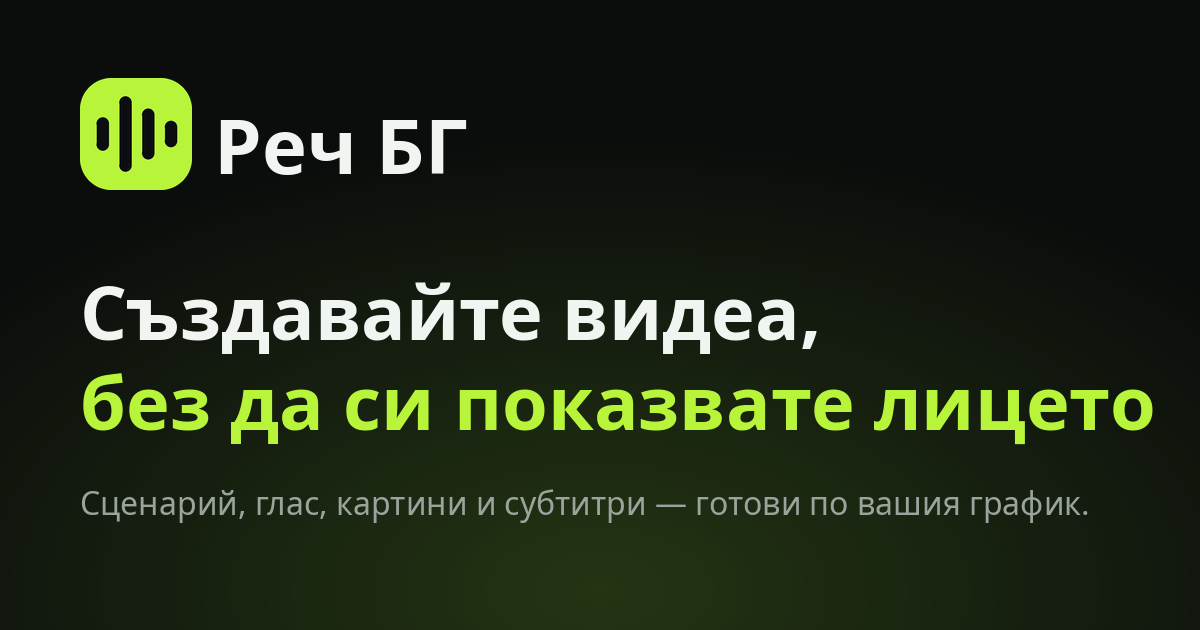
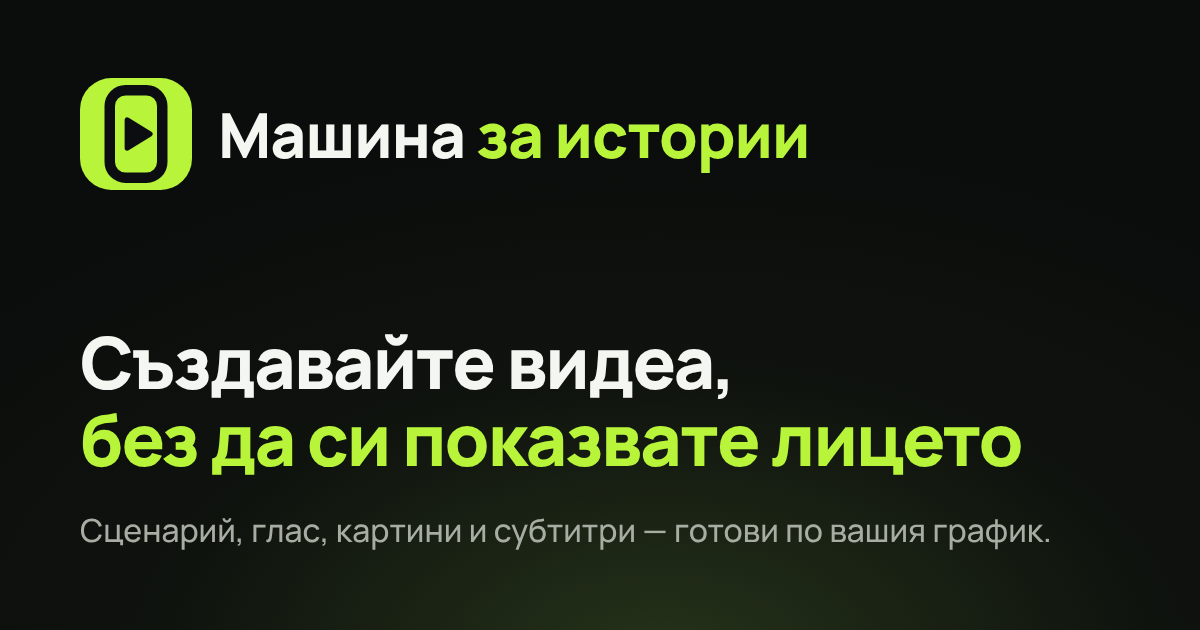
The Bulgarian site is „Машина за истории“, with mashinazaistorii.com as a second address
Its name, wordmark and mark (an upright screen with a play triangle), icons and share image, page titles, the
catalog's mentions, the legal texts and Stripe's product names. Its id in the code stays rechbg.

The Worker also answers on mashinazaistorii.com; SITE_URL stays rechbg.com until the new address is seen to load
(docs/SITES.md), so a problem with the new domain cannot take the site down.

Claude-Session: https://claude.ai/code/session_01YTtdRKNGt1RfBFzQDKghLf

diff --git a/src/public/legal-bg.ts b/src/public/legal-bg.ts
@@ -15,10 +15,10 @@ export const terms: LegalSection[] = [
     id: "service",
     title: "За услугата",
     paragraphs: [
-      "Реч БГ предоставя онлайн инструменти за създаване на кратки вертикални видеа без лице. Изкуствен интелект пише сценария, AI глас го озвучава, сцените получават AI картини — а по ваш избор и кратки AI видеоклипове — и видеото се завършва със субтитри дума по дума, преходи и фонова музика от нашата библиотека. Можете да създавате озвучени истории и факти в избран от вас стил на картините, POV видеа, „брейнрот“ смесици, видеа по ваш собствен сценарий и разкази (заглавна карта, а после историята, разказана върху фонов клип от нашата библиотека или качен от вас, който се върти). Можете да използвате и свои картини, видеоклипове и запис на озвучаването, а по избор AI водещ изговаря озвучаването на видеото пред камера.",
+      "„Машина за истории“ предоставя онлайн инструменти за създаване на кратки вертикални видеа без лице. Изкуствен интелект пише сценария, AI глас го озвучава, сцените получават AI картини — а по ваш избор и кратки AI видеоклипове — и видеото се завършва със субтитри дума по дума, преходи и фонова музика от нашата библиотека. Можете да създавате озвучени истории и факти в избран от вас стил на картините, POV видеа, „брейнрот“ смесици, видеа по ваш собствен сценарий и разкази (заглавна карта, а после историята, разказана върху фонов клип от нашата библиотека или качен от вас, който се върти). Можете да използвате и свои картини, видеоклипове и запис на озвучаването, а по избор AI водещ изговаря озвучаването на видеото пред камера.",
       "С „Клипове“ можете да качите свои по-дълги видеа — подкаст, интервю, стрийм или уебинар — или да ги внесете от линк към файла. Транскрибираме казаното в тях, изкуствен интелект избира и оценява моменти, които биха могли да станат кратки видеа (оценката е приблизителна преценка, а не обещание за гледания), а избраните от вас моменти стават вертикални клипове: изрязани от вашето видео, кадрирани по хората в него и със субтитри. За да кадрираме клип, намираме лицата в него и следим чии устни се движат, докато някой говори; така само определяме къде в кадъра са хората — никога не разпознаваме кои са те. Клиповете се правят от ваши собствени кадри; нищо в тях не е генерирано с изкуствен интелект.",
       "Можете да създавате видеата едно по едно, да ги редактирате, да ги изтегляте и да ги публикувате веднага или да планирате публикуването им. Поредица („автопилот“) използва избраните от вас шаблон, глас, език, стил на картините, дължина и график на публикуване: нов епизод се пише и създава преди всеки час от графика и се публикува автоматично в избраните от вас канали или чака вашето одобрение, ако включите преглед. С лични API ключове AI асистенти и ваши собствени скриптове също могат да създават и изтеглят вашите видеа (вижте „API ключове и MCP“).",
-      "Постоянно подобряваме Реч БГ, затова функциите може да се променят. Ако премахнем основна функция на платен план, ще ви уведомим предварително, когато това е разумно възможно. Части от услугата зависят от други дружества (например доставчиците на AI и социалните мрежи) и техните услуги може да се променят или да не са достъпни.",
+      "Постоянно подобряваме „Машина за истории“, затова функциите може да се променят. Ако премахнем основна функция на платен план, ще ви уведомим предварително, когато това е разумно възможно. Части от услугата зависят от други дружества (например доставчиците на AI и социалните мрежи) и техните услуги може да се променят или да не са достъпни.",
       "Услугата е за лица на 18 или повече години. Регистрацията изисква валиден имейл, парола и приемане на настоящите условия.",
     ],
   },
@@ -44,7 +44,7 @@ export const terms: LegalSection[] = [
     paragraphs: [
       "Забранени са измами, представяне за реално лице без разрешение, нарушаване на авторски права, незаконно съдържание и заобикаляне на лимитите чрез множество профили. Не създавайте видео с образа или гласа на реален човек без неговото изрично съгласие, съдържание, което представя непълнолетни по сексуализиран или вреден начин, клевета, политическа или друга подвеждаща агитация и съдържание със сексуален характер.",
       "При установено нарушение можем да премахнем съдържанието или да ограничим достъпа до профила, като уведомим потребителя с мотивите, когато законът позволява (вижте „Сигнали за незаконно съдържание и deepfake“ и „Прекратяване и промени“).",
-      "Вие отговаряте за това, което създавате и публикувате с Реч БГ. Забранено е също:",
+      "Вие отговаряте за това, което създавате и публикувате с „Машина за истории“. Забранено е също:",
     ],
     list: [
       "да представяте създадени с AI картини, клипове или озвучаване като реални кадри или реални събития по начин, който подвежда хората — например измислени новини, измислени цитати на реални хора, фалшиви отзиви и препоръки или подвеждащо предизборно съдържание;",
@@ -61,7 +61,7 @@ export const terms: LegalSection[] = [
     id: "ai-content",
     title: "Обозначаване на съдържание, създадено с ИИ",
     paragraphs: [
-      "Реч БГ използва изкуствен интелект, за да пише сценарии, заглавия и описания към публикациите и да създава картини, видеоклипове и озвучаване. Видеата с AI глас, AI картини или AI клипове съдържат машинно четимо обозначение, че са създадени или обработени с изкуствен интелект. Не премахвайте и не променяйте това обозначение и не използвайте инструменти, които го заличават. Когато публикувате съдържание, което изобразява или имитира реални хора, събития или места и може да бъде възприето като истинско, ясно посочете, че е изкуствено генерирано или обработено.",
+      "„Машина за истории“ използва изкуствен интелект, за да пише сценарии, заглавия и описания към публикациите и да създава картини, видеоклипове и озвучаване. Видеата с AI глас, AI картини или AI клипове съдържат машинно четимо обозначение, че са създадени или обработени с изкуствен интелект. Не премахвайте и не променяйте това обозначение и не използвайте инструменти, които го заличават. Когато публикувате съдържание, което изобразява или имитира реални хора, събития или места и може да бъде възприето като истинско, ясно посочете, че е изкуствено генерирано или обработено.",
       "Когато публикуваме такова видео в платформа, която предлага обозначаване на AI съдържание през своя API (понастоящем TikTok и YouTube), ние го включваме. Чернова в TikTok не може да носи това обозначение: когато я публикувате, включете етикета на TikTok за съдържание, генерирано с AI. Когато платформа или законът изискват сами да обозначите AI съдържанието, трябва да го направите.",
       "Клонирани гласове. Когато предлагаме тази възможност, можете да озвучавате видеата си с глас, клониран от запис, който качвате. Клониране на глас е позволено само за собствения ви глас или с изричното съгласие на човека — да клонирате гласа му и да го използвате във видеата си — и вие потвърждавате това при всяко клониране. Гласът се създава от вашия запис от ElevenLabs и се пази там само за вас: никой друг не може да го избере или да озвучи нещо с него. Можете да го изтриете по всяко време от „Настройки“, с което той се изтрива и в ElevenLabs. Озвучаването с клониран глас е AI озвучаване като всяко друго и се обозначава по същия начин.",
     ],
@@ -70,9 +70,9 @@ export const terms: LegalSection[] = [
     id: "library",
     title: "Библиотека и AI водещи",
     paragraphs: [
-      "Услугата включва библиотека с фонова музика, фонови видеоклипове, картини и звукови ефекти. Съдържанието от библиотеката можете да използвате само като част от видеа, създадени с Реч БГ, включително когато публикувате или продавате тези видеа с търговска цел. Не можете да го извличате, използвате, продавате или разпространявате самостоятелно, отделно от видеото, да го включвате в други библиотеки или да го регистрирате в системи за разпознаване на съдържание (например Content ID) — нито самостоятелно, нито като част от видео.",
-      "Когато за видео е нужен звуков ефект, какъвто библиотеката няма, нашият AI описва звука с няколко общи думи и ElevenLabs го създава; след това той става част от библиотеката и се предлага само на вас, докато го прегледаме, а после може да се предлага на всички. Видеата, които сте публикували, докато профилът ви е бил активен, може да останат онлайн и след като спрете да използвате Реч БГ.",
-      "AI водещите на екрана можете да използвате само във видеа, създадени с Реч БГ, и не за съдържание за възрастни или със сексуален характер, политическо съдържание (агитация или послания на партии, кандидати и каузи), клеветническо, обидно или подвеждащо съдържание. Не представяйте видеото така, че да създава впечатление, че водещият е реален човек, който лично изразява мнение или препоръчва и подкрепя продукт, услуга, лице или кауза.",
+      "Услугата включва библиотека с фонова музика, фонови видеоклипове, картини и звукови ефекти. Съдържанието от библиотеката можете да използвате само като част от видеа, създадени с „Машина за истории“, включително когато публикувате или продавате тези видеа с търговска цел. Не можете да го извличате, използвате, продавате или разпространявате самостоятелно, отделно от видеото, да го включвате в други библиотеки или да го регистрирате в системи за разпознаване на съдържание (например Content ID) — нито самостоятелно, нито като част от видео.",
+      "Когато за видео е нужен звуков ефект, какъвто библиотеката няма, нашият AI описва звука с няколко общи думи и ElevenLabs го създава; след това той става част от библиотеката и се предлага само на вас, докато го прегледаме, а после може да се предлага на всички. Видеата, които сте публикували, докато профилът ви е бил активен, може да останат онлайн и след като спрете да използвате „Машина за истории“.",
+      "AI водещите на екрана можете да използвате само във видеа, създадени с „Машина за истории“, и не за съдържание за възрастни или със сексуален характер, политическо съдържание (агитация или послания на партии, кандидати и каузи), клеветническо, обидно или подвеждащо съдържание. Не представяйте видеото така, че да създава впечатление, че водещият е реален човек, който лично изразява мнение или препоръчва и подкрепя продукт, услуга, лице или кауза.",
     ],
   },
   {
@@ -81,7 +81,7 @@ export const terms: LegalSection[] = [
     paragraphs: [
       "Можете да свържете профили в YouTube, TikTok и Instagram чрез собствения вход на всяка платформа — за всяка мрежа, щом публикуването в нея е отворено в приложението. Със свързването ни разрешавате да публикуваме видеа в профила от ваше име и да четем необходимите за това данни: името, потребителското име и снимката на профила, състоянието на публикуваните от нас видеа и гледанията, харесванията, коментарите, споделянията и запазванията, които платформата отчита за тях. Докато TikTok не одобри нашето приложение за директно публикуване, изпращаме видеата във входящата ви кутия в TikTok като чернови и вие ги публикувате сами в приложението на TikTok.",
       "За това, което публикувате в дадена платформа, важат нейните собствени условия. Платформите решават за обхвата, модерирането и състоянието на профила; не отговаряме за техните решения, нито за публикации, които те отхвърлят, забавят или премахват.",
-      "Функциите ни за YouTube използват YouTube API Services. Като свързвате канал в YouTube или използвате Реч БГ, за да публикувате в YouTube, вие се съгласявате да бъдете обвързани с Общите условия на YouTube (YouTube Terms of Service): https://www.youtube.com/t/terms.",
+      "Функциите ни за YouTube използват YouTube API Services. Като свързвате канал в YouTube или използвате „Машина за истории“, за да публикувате в YouTube, вие се съгласявате да бъдете обвързани с Общите условия на YouTube (YouTube Terms of Service): https://www.youtube.com/t/terms.",
       "При публикуването важи следното:",
     ],
     list: [
@@ -104,7 +104,7 @@ export const terms: LegalSection[] = [
     id: "reports",
     title: "Сигнали за незаконно съдържание и deepfake",
     paragraphs: [
-      "Ако смятате, че съдържание, създадено или съхранявано чрез Реч БГ, е незаконно или нарушава тези условия — например видео или глас, които имитират вас без ваше съгласие, — изпратете сигнал през контактната форма с тема „Сигнал за злоупотреба“. Посочете: защо смятате, че съдържанието е незаконно или нарушава условията; къде точно е то — линк, име на видеото или профила или друго, което помага да го открием; вашето име и имейл; и потвърждение, че сигналът е подаден добросъвестно и данните в него са точни и пълни.",
+      "Ако смятате, че съдържание, създадено или съхранявано чрез „Машина за истории“, е незаконно или нарушава тези условия — например видео или глас, които имитират вас без ваше съгласие, — изпратете сигнал през контактната форма с тема „Сигнал за злоупотреба“. Посочете: защо смятате, че съдържанието е незаконно или нарушава условията; къде точно е то — линк, име на видеото или профила или друго, което помага да го открием; вашето име и имейл; и потвърждение, че сигналът е подаден добросъвестно и данните в него са точни и пълни.",
       "Потвърждаваме получаването на сигнала. Разглеждаме сигналите своевременно, внимателно и обективно и докато трае проверката, можем временно да ограничим достъпа до съдържанието. Уведомяваме подателя за решението и за възможностите да го оспори. Когато премахнем съдържание или ограничим профил, уведомяваме потребителя, който го е създал или качил, с мотивите за решението, освен когато законът не позволява; той може да възрази чрез контактната форма и ще преразгледаме решението. При съмнение за престъпление, което застрашава живота или безопасността на хора, уведомяваме компетентните органи.",
       "Това е редът за уведомяване и действие по Регламент (ЕС) 2022/2065 за цифровите услуги. Единна точка за контакт за органи и потребители по този регламент е имейлът, посочен в началото на тази страница; пишете ни на български или английски.",
     ],
@@ -113,7 +113,7 @@ export const terms: LegalSection[] = [
     id: "plans",
     title: "Цени и абонаменти",
     paragraphs: [
-      "Новите профили започват с безплатен пробен план с ограничен срок и брой кредити, посочени на страница „Цени“ (/pricing). Пробният план не изисква банкова карта и не се превръща автоматично в платен. Пробата е достъпна веднъж за човек и за имейл кутия; можем да откажем проба, за която смятаме, че се повтаря. Видеата, създадени през пробата, носят малък воден знак на Реч БГ и остават в профила ви.",
+      "Новите профили започват с безплатен пробен план с ограничен срок и брой кредити, посочени на страница „Цени“ (/pricing). Пробният план не изисква банкова карта и не се превръща автоматично в платен. Пробата е достъпна веднъж за човек и за имейл кутия; можем да откажем проба, за която смятаме, че се повтаря. Видеата, създадени през пробата, носят малък воден знак на „Машина за истории“ и остават в профила ви.",
       "Платените планове са абонаменти, които се плащат предварително — месечно или годишно — и се подновяват автоматично в края на всеки месец или година за същата цена, докато не прекратите абонамента от „Плащане“ в приложението. Плащанията се извършват чрез Stripe. Цените са в евро и са крайни — с включен ДДС. Сумата се показва преди плащане. Актуалните цени, планове и това, което кредитите купуват, са показани на страница „Цени“ (/pricing). Плановете се различават по месечните кредити и по ограничения — например брой поредици и свързани канали, място за файлове, дължина и размер на качваните видеа и клониране на глас; те са показани на страница „Цени“ и в приложението.",
       "Кредитите са общ баланс за цялата работа на изкуствения интелект във вашите видеа. Всеки план добавя своите кредити всеки месец, включително когато се плаща годишно. С кредити се заплащат: ново видео — според дължината му, със сценария, озвучаването и картините; оживяването на сцена като кратък AI видеоклип; AI водещ на екрана; ново озвучаване и нови картини във вече създадено видео; клип от ваше видео; и транскрибирането на по-дълги видеа (по-кратките се транскрибират безплатно). Промените в текста, субтитрите, музиката и времетраенето са безплатни, както и озвучаването с ваш собствен запис; редактирането на клип е безплатно, освен ако го преместите предимно върху други кадри. Тарифите в кредити са показани на страница „Цени“; всяка започната единица от тарифата (секунди, минути или брой картини) се закръгля нагоре. Ако работата не успее по причина при нас, кредитите за нея се връщат.",
       "Неизползваните кредити се прехвърлят от месец в месец, докато планът ви е активен — до ограничение, равно на определен брой месечни количества кредити на плана плюс купените от вас пакети кредити; размерът му е посочен на страница „Цени“. Кредитите нямат парична стойност и спират, когато планът приключи. Ако смените плана си през месеца, кредитите ви за този месец се преизчисляват.",
@@ -161,7 +161,7 @@ export const terms: LegalSection[] = [
     list: [
       "Какво печелите: 30% от това, което всеки клиент, регистрирал се с вашия код, ни плаща за планове и пакети кредити, без данъците (ДДС), в продължение на 12 месеца от първото му плащане. Човек, който вече е имал профил или който премахне вашия код при регистрацията, не е ваш клиент.",
       "Кога се изплаща: всяка комисиона се задържа 30 дни. Възстановяване на плащане или оспорването му пред банката (chargeback) я намалява или отменя; ако вече е била изплатена, приспадаме разликата от следващото ви изплащане. Наличните салда от 50 евро или повече изплащаме по PayPal, на посочения от вас адрес, веднъж месечно.",
-      "Какво не е позволено: да препоръчвате сами себе си или свои други профили; спам и непоискани съобщения; реклами, които наддават за нашето име или се представят за нас; обещания за печалби, гледания или монетизация; подвеждащи твърдения за Реч БГ. Посочвайте, че получавате комисиона, когато законът или платформата го изискват (например #реклама или „партньорски линк“).",
+      "Какво не е позволено: да препоръчвате сами себе си или свои други профили; спам и непоискани съобщения; реклами, които наддават за нашето име или се представят за нас; обещания за печалби, гледания или монетизация; подвеждащи твърдения за „Машина за истории“. Посочвайте, че получавате комисиона, когато законът или платформата го изискват (например #реклама или „партньорски линк“).",
       "Нашата част: можем да спрем временно партньорски профил и да задържим комисиони, спечелени в нарушение на тези правила. Комисиони се печелят само докато профилът ви съществува: с изтриването му губите салдото, което още не е изплатено. Вие отговаряте за данъците върху спечеленото. Можем да променим програмата с 30-дневно предизвестие; спечеленото преди промяната остава както е договорено.",
     ],
   },
@@ -178,7 +178,7 @@ export const terms: LegalSection[] = [
     title: "Прекратяване и промени",
     paragraphs: [
       "Можете да прекратите подновяването от страницата за абонамента. Достъпът по платения план продължава до края на платения период. Съществени промени в цените и условията се съобщават предварително и не променят със задна дата платен период. Съобщаваме ги по имейл или в приложението поне 30 дни преди да започнат да важат; ако не сте съгласни с промяната, можете да прекратите абонамента и да изтриете профила си, преди тя да започне да важи.",
-      "Можете да спрете да използвате Реч БГ по всяко време и да изтриете профила си от „Настройки“. Изтриването на профила прекратява веднага платения план, без възстановяване за остатъка от периода, и изтрива данните ви, както е описано в Политиката за поверителност; преди това изтеглете всичко, което искате да запазите. За да се откажете от договора в 14-дневния срок с възстановяване, свържете се с нас, преди да изтриете профила си.",
+      "Можете да спрете да използвате „Машина за истории“ по всяко време и да изтриете профила си от „Настройки“. Изтриването на профила прекратява веднага платения план, без възстановяване за остатъка от периода, и изтрива данните ви, както е описано в Политиката за поверителност; преди това изтеглете всичко, което искате да запазите. За да се откажете от договора в 14-дневния срок с възстановяване, свържете се с нас, преди да изтриете профила си.",
       "Можем да спрем временно или да закрием профила ви или да премахнем съдържание, ако сериозно или многократно нарушавате тези условия, ако не плащате, ако законът или платформа го изисква или ако използването на услугата от вас излага на риск други хора или самата услуга. Освен когато законът или обстоятелствата не го позволяват, ще ви съобщим причината и ще ви дадем възможност да отговорите. Ако закрием профила ви, без да имате вина за това, ще възстановим неизползваната част от текущия ви платен период.",
     ],
   },
@@ -254,14 +254,14 @@ export const privacy: LegalSection[] = [
     id: "youtube",
     title: "YouTube API Services",
     paragraphs: [
-      "Реч БГ използва YouTube API Services, когато свържете канал в YouTube. Начинът, по който Google обработва вашите данни, е описан в Политиката за поверителност на Google (Google Privacy Policy): https://policies.google.com/privacy.",
-      "Използването от Реч БГ на информацията, получена от приложно-програмните интерфейси на Google (Google APIs), и предаването ѝ на което и да е друго приложение ще спазват Google API Services User Data Policy (https://developers.google.com/terms/api-services-user-data-policy), включително изискванията за ограничено използване (Limited Use).",
+      "„Машина за истории“ използва YouTube API Services, когато свържете канал в YouTube. Начинът, по който Google обработва вашите данни, е описан в Политиката за поверителност на Google (Google Privacy Policy): https://policies.google.com/privacy.",
+      "Използването от „Машина за истории“ на информацията, получена от приложно-програмните интерфейси на Google (Google APIs), и предаването ѝ на което и да е друго приложение ще спазват Google API Services User Data Policy (https://developers.google.com/terms/api-services-user-data-policy), включително изискванията за ограничено използване (Limited Use).",
       "За въпроси как използваме вашите данни от YouTube се свържете с нас чрез контактната форма или на имейла, посочен в началото на тази страница.",
     ],
     list: [
       "До какво имаме достъп: при свързването — идентификаторът, името, потребителското име и снимката на вашия канал, които четем отново всяка седмица, докато каналът остава свързан (с това проверяваме и дали все още ни разрешавате достъп); след това качваме в него видеата, които публикувате или планирате, с техните заглавия, описания и вашия отговор дали са създадени за деца, и четем броя на гледанията, харесванията и коментарите на тези видеа: често през първите им 30 дни, а после всяка седмица, докато каналът остава свързан. Никога не изтегляме видеа от YouTube.",
-      "Какво съхраняваме и защо: токените за достъп (криптирани), данните за канала и за всяко видео, което публикуваме — неговия идентификатор в YouTube, линк, състояние и посочените бройки, — за да публикуваме вместо вас и да ви показваме как се представят вашите видеа. Използваме тези данни само за да ви предоставяме Реч БГ и ги пазим само докато можем да ги опресняваме: идентификаторът в YouTube, линкът и бройките на видео, които не са могли да бъдат опреснени в продължение на 30 дни (например защото видеото е изтрито в YouTube), се изтриват.",
-      "С кого ги споделяме: с Google, за да публикуваме вашите видеа, и с доставчиците, които хостват Реч БГ (вижте „Доставчици и получатели“ по-горе). Не ги продаваме, не ги използваме за реклама и не позволяваме на трети страни да показват реклами чрез Реч БГ. Бисквитката и хранилището на браузъра, които използваме, са описани по-долу в „Бисквитки: само необходимото“ и „Хранилище на браузъра и вашият контрол“.",
+      "Какво съхраняваме и защо: токените за достъп (криптирани), данните за канала и за всяко видео, което публикуваме — неговия идентификатор в YouTube, линк, състояние и посочените бройки, — за да публикуваме вместо вас и да ви показваме как се представят вашите видеа. Използваме тези данни само за да ви предоставяме „Машина за истории“ и ги пазим само докато можем да ги опресняваме: идентификаторът в YouTube, линкът и бройките на видео, които не са могли да бъдат опреснени в продължение на 30 дни (например защото видеото е изтрито в YouTube), се изтриват.",
+      "С кого ги споделяме: с Google, за да публикуваме вашите видеа, и с доставчиците, които хостват „Машина за истории“ (вижте „Доставчици и получатели“ по-горе). Не ги продаваме, не ги използваме за реклама и не позволяваме на трети страни да показват реклами чрез „Машина за истории“. Бисквитката и хранилището на браузъра, които използваме, са описани по-долу в „Бисквитки: само необходимото“ и „Хранилище на браузъра и вашият контрол“.",
       "Как да премахнете достъпа ни: прекъснете връзката с канала на страница „Канали“ или изтрийте профила си. Тогава изтриваме токените му и данните от YouTube за видеата, които сме публикували (техните идентификатори в YouTube, линкове и бройки, както и името на канала), и искаме от Google да отмени достъпа ни; в историята на публикациите ви остава само това, че видеото е било публикувано. Можете да отмените достъпа и по всяко време от настройките за сигурност на вашия профил в Google: https://security.google.com/settings/security/permissions; тогава каналът се показва като канал, който трябва да бъде свързан отново, и ако не го свържете отново в рамките на 14 дни, го премахваме заедно с данните му от YouTube по същия начин.",
     ],
   },
@@ -307,7 +307,7 @@ export const privacy: LegalSection[] = [
     id: "cookies",
     title: "Бисквитки: само необходимото",
     paragraphs: [
-      "Реч БГ използва една необходима сесийна бисквитка за удостоверяване на входа, с максимален срок 30 дни или докато излезете от профила си. Няма рекламни или аналитични бисквитки, нито проследяващи пиксели на трети страни, затова няма и банер за бисквитки. Линковете за препоръка също не задават бисквитки: кодът остава в адреса и в паметта на страницата, докато се регистрирате, където го виждате и можете да го премахнете.",
+      "„Машина за истории“ използва една необходима сесийна бисквитка за удостоверяване на входа, с максимален срок 30 дни или докато излезете от профила си. Няма рекламни или аналитични бисквитки, нито проследяващи пиксели на трети страни, затова няма и банер за бисквитки. Линковете за препоръка също не задават бисквитки: кодът остава в адреса и в паметта на страницата, докато се регистрирате, където го виждате и можете да го премахнете.",
     ],
   },
   {
@@ -328,11 +328,11 @@ export const privacy: LegalSection[] = [
 ];
 
 /** When these texts last changed (shown at the top of both pages). */
-export const LEGAL_BG_UPDATED = "2026-11-18";
+export const LEGAL_BG_UPDATED = "2026-11-21";
 /** The short version at the top of each page. */
 export const summaries: Record<"terms" | "privacy", string> = {
   terms:
-    "запазвате правата върху това, което подавате, и можете да използвате създадените видеа и с търговска цел. Вие отговаряте за видеата, които публикувате, включително за тези, които поредица публикува вместо вас — включете преглед, ако искате да виждате всяко предварително. Не използвайте Реч БГ, за да заблуждавате хората или да имитирате реални хора. Плановете са месечни или годишни и можете да спрете подновяването по всяко време.",
+    "запазвате правата върху това, което подавате, и можете да използвате създадените видеа и с търговска цел. Вие отговаряте за видеата, които публикувате, включително за тези, които поредица публикува вместо вас — включете преглед, ако искате да виждате всяко предварително. Не използвайте „Машина за истории“, за да заблуждавате хората или да имитирате реални хора. Плановете са месечни или годишни и можете да спрете подновяването по всяко време.",
   privacy:
     "използваме данните ви, за да създаваме и публикуваме вашите видеа, и за нищо друго. Не ги продаваме, не показваме реклами и не използваме проследяващи бисквитки. Можете да изтеглите видеата си и да изтриете профила си по всяко време.",
 };

diff --git a/shared/locales/bg.ts b/shared/locales/bg.ts
@@ -113,7 +113,7 @@ export const bg: Words = {
     "A direct link to an MP4, MOV or WebM file, or a Dropbox or Google Drive link that anyone with the link can open. YouTube links can't be imported: if it's your video, download it in YouTube Studio and upload the file.": "Директна връзка към MP4, MOV или WebM файл или връзка от Dropbox или Google Drive, която всеки с връзката може да отвори. Връзки от YouTube не могат да се импортират: ако видеото е ваше, изтеглете го от YouTube Studio и качете файла.",
     "A doodle of a curious octopus with three hearts": "Драскулка на любопитен октопод с три сърца",
     "A drama is a story series: choose a story style for it.": "Драмата е поредица с история: изберете за нея стил с история.",
-    "A drawing of the Hookstreak Shorts dashboard: a series with this week's videos made, ready and scheduled": "Рисунка на таблото на Реч БГ: поредица с видеата за седмицата, направени, готови и планирани",
+    "A drawing of the Hookstreak Shorts dashboard: a series with this week's videos made, ready and scheduled": "Рисунка на таблото на „Машина за истории“: поредица с видеата за седмицата, направени, готови и планирани",
     "A few videos a week for one channel.": "Няколко видеа седмично за един канал.",
     "A file in this post can't be read. Use MP4, MOV or WebM videos and JPG or PNG images.": "Файл в тази публикация не може да се прочете. Използвайте видеа във формат MP4, MOV или WebM и изображения във формат JPG или PNG.",
     "A file in this post couldn't be loaded (it may have been deleted). Choose it again.": "Файл в тази публикация не можа да се зареди (може да е изтрит). Изберете го отново.",
@@ -917,10 +917,10 @@ export const bg: Words = {
     "Home": "Начало",
     "Hook": "Кука",
     "Hook title": "Заглавие-кука",
-    "Hookstreak Shorts": "Реч БГ",
-    "Hookstreak Shorts home": "Начало на Реч БГ",
-    "Hookstreak then opens from your home screen like any app, full screen and signed in.": "След това Реч БГ се отваря от началния ви екран като всяко приложение, на цял екран и с влязъл профил.",
-    "hookstreak.app/app/series": "rechbg.com/app/series",
+    "Hookstreak Shorts": "Машина за истории",
+    "Hookstreak Shorts home": "Начало на „Машина за истории“",
+    "Hookstreak then opens from your home screen like any app, full screen and signed in.": "След това „Машина за истории“ се отваря от началния ви екран като всяко приложение, на цял екран и с влязъл профил.",
+    "hookstreak.app/app/series": "mashinazaistorii.com/app/series",
     "Horror": "Хорър",
     "How": "Как",
     "How a typo shaped a map": "Как една печатна грешка промени картата",
@@ -973,7 +973,7 @@ export const bg: Words = {
     "Instagram": "Instagram",
     "Install app": "Инсталирайте приложението",
     "Install the app": "Инсталиране на приложението",
-    "Installed. Open Hookstreak from your home screen or app list.": "Инсталирано. Отворете Реч БГ от началния екран или от списъка с приложения.",
+    "Installed. Open Hookstreak from your home screen or app list.": "Инсталирано. Отворете „Машина за истории“ от началния екран или от списъка с приложения.",
     "Invalid request origin.": "Невалиден източник на заявката.",
     "Invalid request.": "Невалидна заявка.",
     "Invalid signature.": "Невалиден подпис.",
@@ -1221,7 +1221,7 @@ export const bg: Words = {
     "No. A tool opens with your idea filled in; you see the draft script and choose the voice and look before anything is made or charged.": "Не. Инструментът се отваря с попълнена ваша идея; виждате черновата на сценария и избирате гласа и вида, преди нещо да бъде създадено или таксувано.",
     "No. Every story is fictional and original, written for you from the question, so you never repost anyone else's words.": "Не. Всяка история е измислена и оригинална, написана за вас по въпроса, така че никога не публикувате чужди думи.",
     "No. Every video is faceless and narrated by a natural AI voice in one of 26 languages. You can use your own recording if you prefer.": "Не. Всяко видео е без лице и се озвучава от естествен AI глас на един от 26 езика. Ако предпочитате, можете да използвате свой запис.",
-    "No. Pick a style and a topic once and Hookstreak Shorts writes the script, records the voice, draws a picture for every sentence, adds subtitles and music, and renders the video. You can also make single videos whenever you like.": "Не. Избирате стил и тема веднъж, а Реч БГ пише сценария, записва гласа, рисува картина за всяко изречение, добавя субтитри и музика и сглобява видеото. Можете да правите и отделни видеа, когато пожелаете.",
+    "No. Pick a style and a topic once and Hookstreak Shorts writes the script, records the voice, draws a picture for every sentence, adds subtitles and music, and renders the video. You can also make single videos whenever you like.": "Не. Избирате стил и тема веднъж, а „Машина за истории“ пише сценария, записва гласа, рисува картина за всяко изречение, добавя субтитри и музика и сглобява видеото. Можете да правите и отделни видеа, когато пожелаете.",
     "No. The videos explain well-established effects and studies for general interest; they never diagnose or give medical advice.": "Не. Видеата обясняват утвърдени ефекти и изследвания с общопознавателна цел; те никога не поставят диагнози и не дават медицински съвети.",
     "No. The writer focuses on practical lessons about habits and mindset and never promises riches or guaranteed results.": "Не. Сценаристът се спира на практични уроци за навиците и нагласата и никога не обещава богатство или гарантирани резултати.",
     "None": "Няма",
@@ -1359,7 +1359,7 @@ export const bg: Words = {
     "Photos of the product": "Снимки на продукта",
     "Piano": "Пиано",
     "Pick a faceless style below. You'll see the script before anything is made, and you can turn it into a series later. Have a podcast or stream?": "Изберете стил за видео без лице по-долу. Ще видите сценария, преди да се създаде каквото и да е, а по-късно можете да го превърнете в поредица. Имате подкаст или стрийм?",
-    "Pick a niche, a voice and an art style once. Hookstreak Shorts writes, narrates, illustrates and subtitles a new short video for every slot in your schedule, ready for TikTok, YouTube Shorts and Instagram Reels, and posts it straight to YouTube. Posting to TikTok and Instagram is coming soon.": "Изберете ниша, глас и стил на картините веднъж. Реч БГ пише, озвучава, илюстрира и поставя субтитри на ново кратко видео за всеки час от вашия график, готово за TikTok, YouTube Shorts и Instagram Reels, и го публикува направо в YouTube. Публикуването в TikTok и Instagram предстои скоро.",
+    "Pick a niche, a voice and an art style once. Hookstreak Shorts writes, narrates, illustrates and subtitles a new short video for every slot in your schedule, ready for TikTok, YouTube Shorts and Instagram Reels, and posts it straight to YouTube. Posting to TikTok and Instagram is coming soon.": "Изберете ниша, глас и стил на картините веднъж. „Машина за истории“ пише, озвучава, илюстрира и поставя субтитри на ново кратко видео за всеки час от вашия график, готово за TikTok, YouTube Shorts и Instagram Reels, и го публикува направо в YouTube. Публикуването в TikTok и Instagram предстои скоро.",
     "Pick a plan, or try it free and make your first video in minutes.": "Изберете план или опитайте безплатно и направете първото си видео за минути.",
     "Pick a style": "Изберете стил",
     "Pick a style and get your first video in minutes.": "Изберете стил и получете първото си видео за минути.",

diff --git a/sites/rechbg/shell.ts b/sites/rechbg/shell.ts
@@ -8,12 +8,12 @@ import type { Plugin } from "vite";
 //   offline page (sites/rechbg/public).
 // - src/i18n/rechbg.ts loaded before the app.
 
-const TITLE = "Реч БГ — видеа без лице на автопилот";
+const TITLE = "Машина за истории — видеа без лице на автопилот";
 const DESCRIPTION =
-  "Изберете ниша, глас и стил на картините веднъж. Реч БГ пише, озвучава, илюстрира и поставя субтитри на ново кратко видео за всеки час от вашия график, готово за TikTok, YouTube Shorts и Instagram Reels.";
+  "Изберете ниша, глас и стил на картините веднъж. „Машина за истории“ пише, озвучава, илюстрира и поставя субтитри на ново кратко видео за всеки час от вашия график, готово за TikTok, YouTube Shorts и Instagram Reels.";
 const NOSCRIPT = `<noscript>
       <main style="max-width: 640px; margin: 48px auto; padding: 0 16px; font-family: system-ui, sans-serif; line-height: 1.5">
-        <h1>Реч БГ</h1>
+        <h1>Машина за истории</h1>
         <p>${DESCRIPTION}</p>
         <p>Свържете своя YouTube канал, за да публикувате видеата си като Shorts в часовете, които зададете.</p>
         <p>Включете JavaScript, за да използвате приложението.</p>
@@ -41,7 +41,7 @@ export function rechbgShell(): Plugin[] {
       let out = replace(html, /<html lang="en">/, '<html lang="bg">', "the language");
       out = replace(out, /<title>[^<]*<\/title>/, `<title>${TITLE}</title>`, "the title");
       out = replace(out, /(<meta\s+name="description"\s+content=")[^"]*(")/, `<meta name="description" content="${DESCRIPTION}"`, "the description");
-      out = replace(out, /(<meta name="apple-mobile-web-app-title" content=")[^"]*(")/, '<meta name="apple-mobile-web-app-title" content="Реч БГ"', "the app's title");
+      out = replace(out, /(<meta name="apple-mobile-web-app-title" content=")[^"]*(")/, '<meta name="apple-mobile-web-app-title" content="Машина за истории"', "the app's title");
       return replace(out, /<noscript>[\s\S]*?<\/noscript>/, NOSCRIPT, "the summary for readers without scripts");
     },
     closeBundle() {

diff --git a/shared/brand.ts b/shared/brand.ts
@@ -13,11 +13,14 @@ const hookstreak = {
   pitch:
     "Pick a niche, a voice and an art style once. Hookstreak Shorts writes, narrates, illustrates and subtitles a new short video for every slot in your schedule, ready for TikTok, YouTube Shorts and Instagram Reels, and posts it straight to YouTube. Posting to TikTok and Instagram is coming soon.",
 };
-/** Реч БГ: Hookstreak in Bulgarian (shared/site.ts). */
+/**
+ * Hookstreak in Bulgarian (shared/site.ts): „Машина за истории“ (mashinazaistorii.com), called Реч БГ until 2026-11-21.
+ * Its id in the code stays `rechbg` (the build's SITE, the branch, the Worker, the database).
+ */
 const rechbg: typeof hookstreak = {
-  name: "Реч БГ", family: "Реч", product: "БГ", slug: "rech-bg",
+  name: "Машина за истории", family: "Машина", product: "за истории", slug: "mashina-za-istorii",
   tagline: "Видеа без лице на автопилот",
   pitch:
-    "Изберете ниша, глас и стил на картините веднъж. Реч БГ пише, озвучава, илюстрира и поставя субтитри на ново кратко видео за всеки час от вашия график, готово за TikTok, YouTube Shorts и Instagram Reels, и го публикува направо в YouTube. Публикуването в TikTok и Instagram предстои скоро.",
+    "Изберете ниша, глас и стил на картините веднъж. „Машина за истории“ пише, озвучава, илюстрира и поставя субтитри на ново кратко видео за всеки час от вашия график, готово за TikTok, YouTube Shorts и Instagram Reels, и го публикува направо в YouTube. Публикуването в TikTok и Instagram предстои скоро.",
 };
 export const PRODUCT: Readonly<typeof hookstreak> = typeof __SITE__ === "string" && __SITE__ === "rechbg" ? rechbg : hookstreak;

diff --git a/sites/rechbg/public/offline.html b/sites/rechbg/public/offline.html
@@ -5,7 +5,7 @@
     <meta name="viewport" content="width=device-width, initial-scale=1.0" />
     <meta name="theme-color" content="#0b0d0c" />
     <meta name="robots" content="noindex" />
-    <title>Няма връзка · Реч БГ</title>
+    <title>Няма връзка · Машина за истории</title>
     <link rel="icon" type="image/svg+xml" href="/favicon.svg" />
     <!-- Shown by the service worker (public/sw.js) when a page can't load: self-contained, no app code. Реч БГ's copy of public/offline.html. -->
     <style>
@@ -24,7 +24,7 @@
     <main>
       <img src="/icons/icon-192.png" alt="" />
       <h1>Няма връзка</h1>
-      <p>Реч БГ има нужда от връзка с интернет, за да зареди вашите видеа. Проверете връзката си и опитайте отново.</p>
+      <p>„Машина за истории“ има нужда от връзка с интернет, за да зареди вашите видеа. Проверете връзката си и опитайте отново.</p>
       <a href="">Опитайте отново</a>
     </main>
   </body>

diff --git a/src/ui.tsx b/src/ui.tsx
@@ -8,10 +8,10 @@ import { PRODUCT } from "../shared/brand";
 
 /** The mark: a ghost whose face is a play button. Same drawing as public/favicon.svg. */
 export function LogoMark({ size = 22 }: { size?: number }) {
-  // Реч БГ's mark: four bars of a sound wave.
+  // „Машина за истории“'s mark: an upright screen (a vertical video) with a play triangle. Same drawing as sites/rechbg/public/favicon.svg.
   if (SITE.id === "rechbg") return (
-    <svg width={size} height={size} viewBox="0 0 64 64" fill="none" stroke="currentColor" strokeWidth="7" strokeLinecap="round" aria-hidden="true">
-      <path d="M13 26v12M26 14v36M39 21v22M52 28v8" />
+    <svg width={size} height={size} viewBox="0 0 64 64" fill="none" stroke="currentColor" strokeWidth="6" strokeLinecap="round" strokeLinejoin="round" aria-hidden="true">
+      <rect x="17" y="7" width="30" height="50" rx="9" /><path d="M27 24v16l13-8z" fill="currentColor" strokeWidth="3" />
     </svg>
   );
   return (

diff --git a/tests/sites.test.ts b/tests/sites.test.ts
@@ -45,7 +45,7 @@ it("gives each site its own Worker, database, bucket and workflows", () => {
   expect(rechbg).toContain('"migrations": [{ "tag": "media-v1", "new_sqlite_classes": ["MediaRenderer"] }]');
   expect(hookstreak).toContain(String.raw`"define": { "__SITE__": "\"hookstreak\"" }`);
   expect(rechbg).toContain(String.raw`"define": { "__SITE__": "\"rechbg\"" }`);
-  expect(rechbg).toContain('"routes": [{ "pattern": "rechbg.com", "custom_domain": true }]');
+  expect(rechbg).toContain('"routes": [{ "pattern": "rechbg.com", "custom_domain": true }, { "pattern": "mashinazaistorii.com", "custom_domain": true }]');
   // Реч БГ deploys from its own branch, never from main: a merge to main changes Hookstreak alone.
   const deploy = readFileSync(".github/workflows/deploy-rechbg.yml", "utf8");
   expect(deploy).toContain("\non:\n  push:\n    branches: [rechbg]\n  workflow_dispatch:\n");

diff --git a/docs/SITES.md b/docs/SITES.md
@@ -4,10 +4,20 @@ This repository is Hookstreak Shorts. The same code also builds a second site: *
 with its own name, logo, currency, database, storage and Stripe account. Hookstreak is the default and does not
 change: a build without `SITE=rechbg` renders the pages it always did.
 
-Status: Реч БГ builds (`npm run build:rechbg`) with the public pages, the app, the legal pages and the e-mails in
-Bulgarian, its name and logo, and prices in euro. Its database and bucket exist; it is not deployed yet: the
-first deploy replaces the earlier Реч БГ app. What is left
-is under "Deployment" and "Still to do".
+**Its name.** Since 2026-11-21 the Bulgarian site is called **„Машина за истории“** (the name of its owner's TikTok
+and YouTube channels), at **mashinazaistorii.com**. Before that it was Реч БГ at rechbg.com, a name from the earlier
+speech product. Only what people see changed (`shared/brand.ts`, the mark in `src/ui.tsx`, `sites/rechbg/`, the
+catalog, the legal texts): its id in the code stays `rechbg` (the build's `SITE`, the branch, the Worker `rech-bg`,
+the database), and this document and the code's comments still call it Реч БГ.
+
+The move to the new address is in two deploys, so a problem with the new domain never takes the site down:
+1. the new name, with mashinazaistorii.com added as a second address of the Worker (`routes` in
+   `wrangler.rechbg.jsonc`) while `SITE_URL` stays rechbg.com: the new address only has to load;
+2. once it does, and the new domain is in the Turnstile widget and has e-mail sending: `SITE_URL` and the contact
+   address move to it, and rechbg.com redirects there.
+
+Status: deployed since 2026-11-19 from the branch `rechbg`, with the public pages, the app, the legal pages and the
+e-mails in Bulgarian, its name and logo, and prices in euro, on its own database and bucket.
 
 ## How a build knows its site
 
